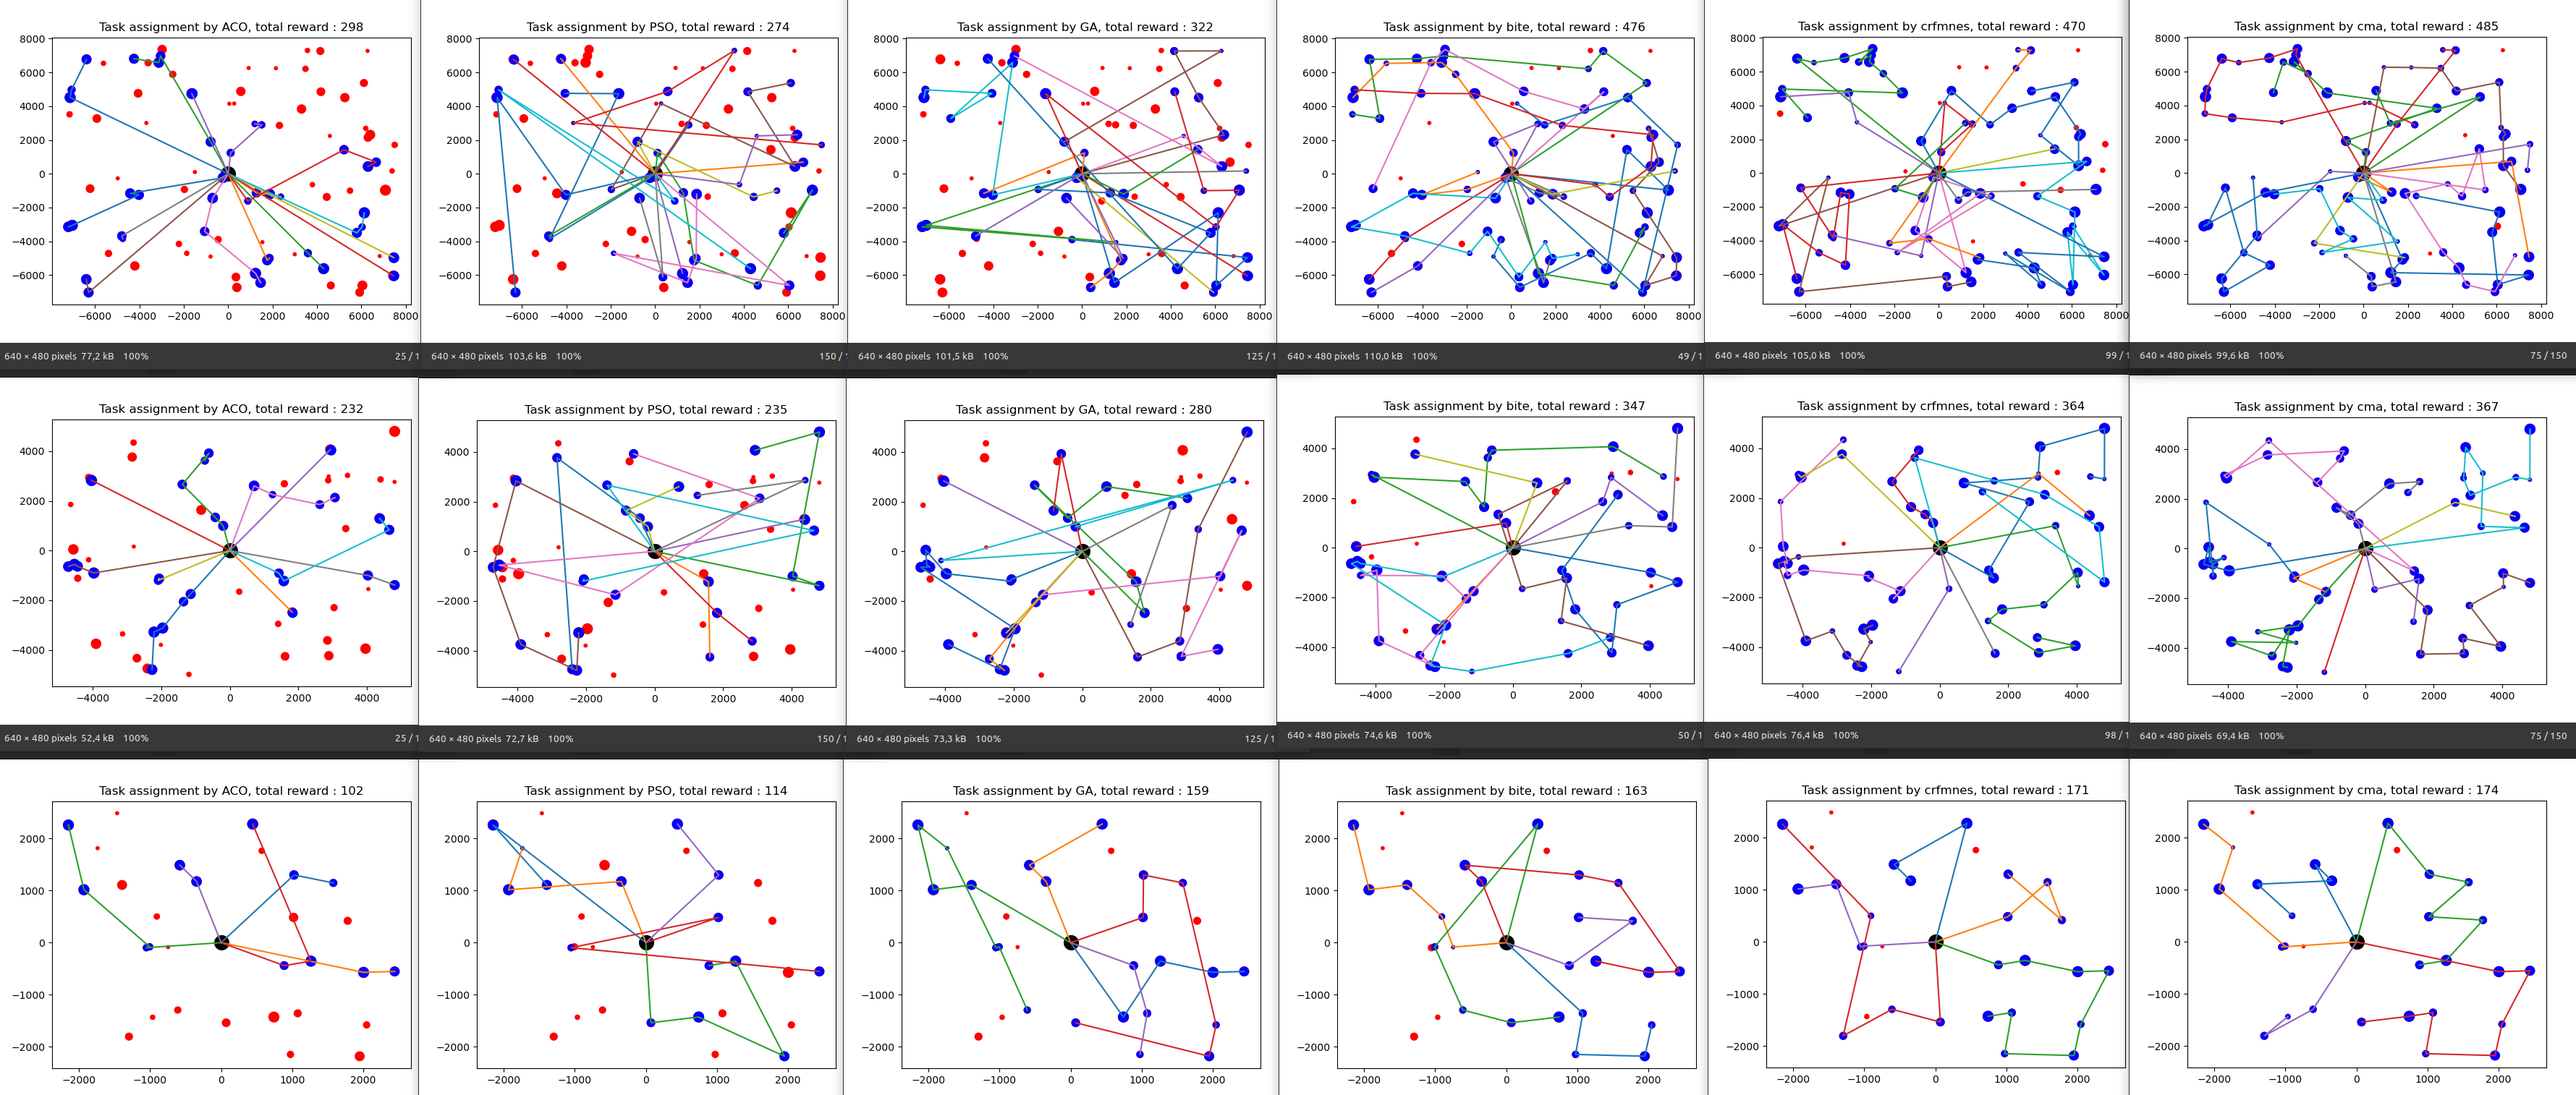
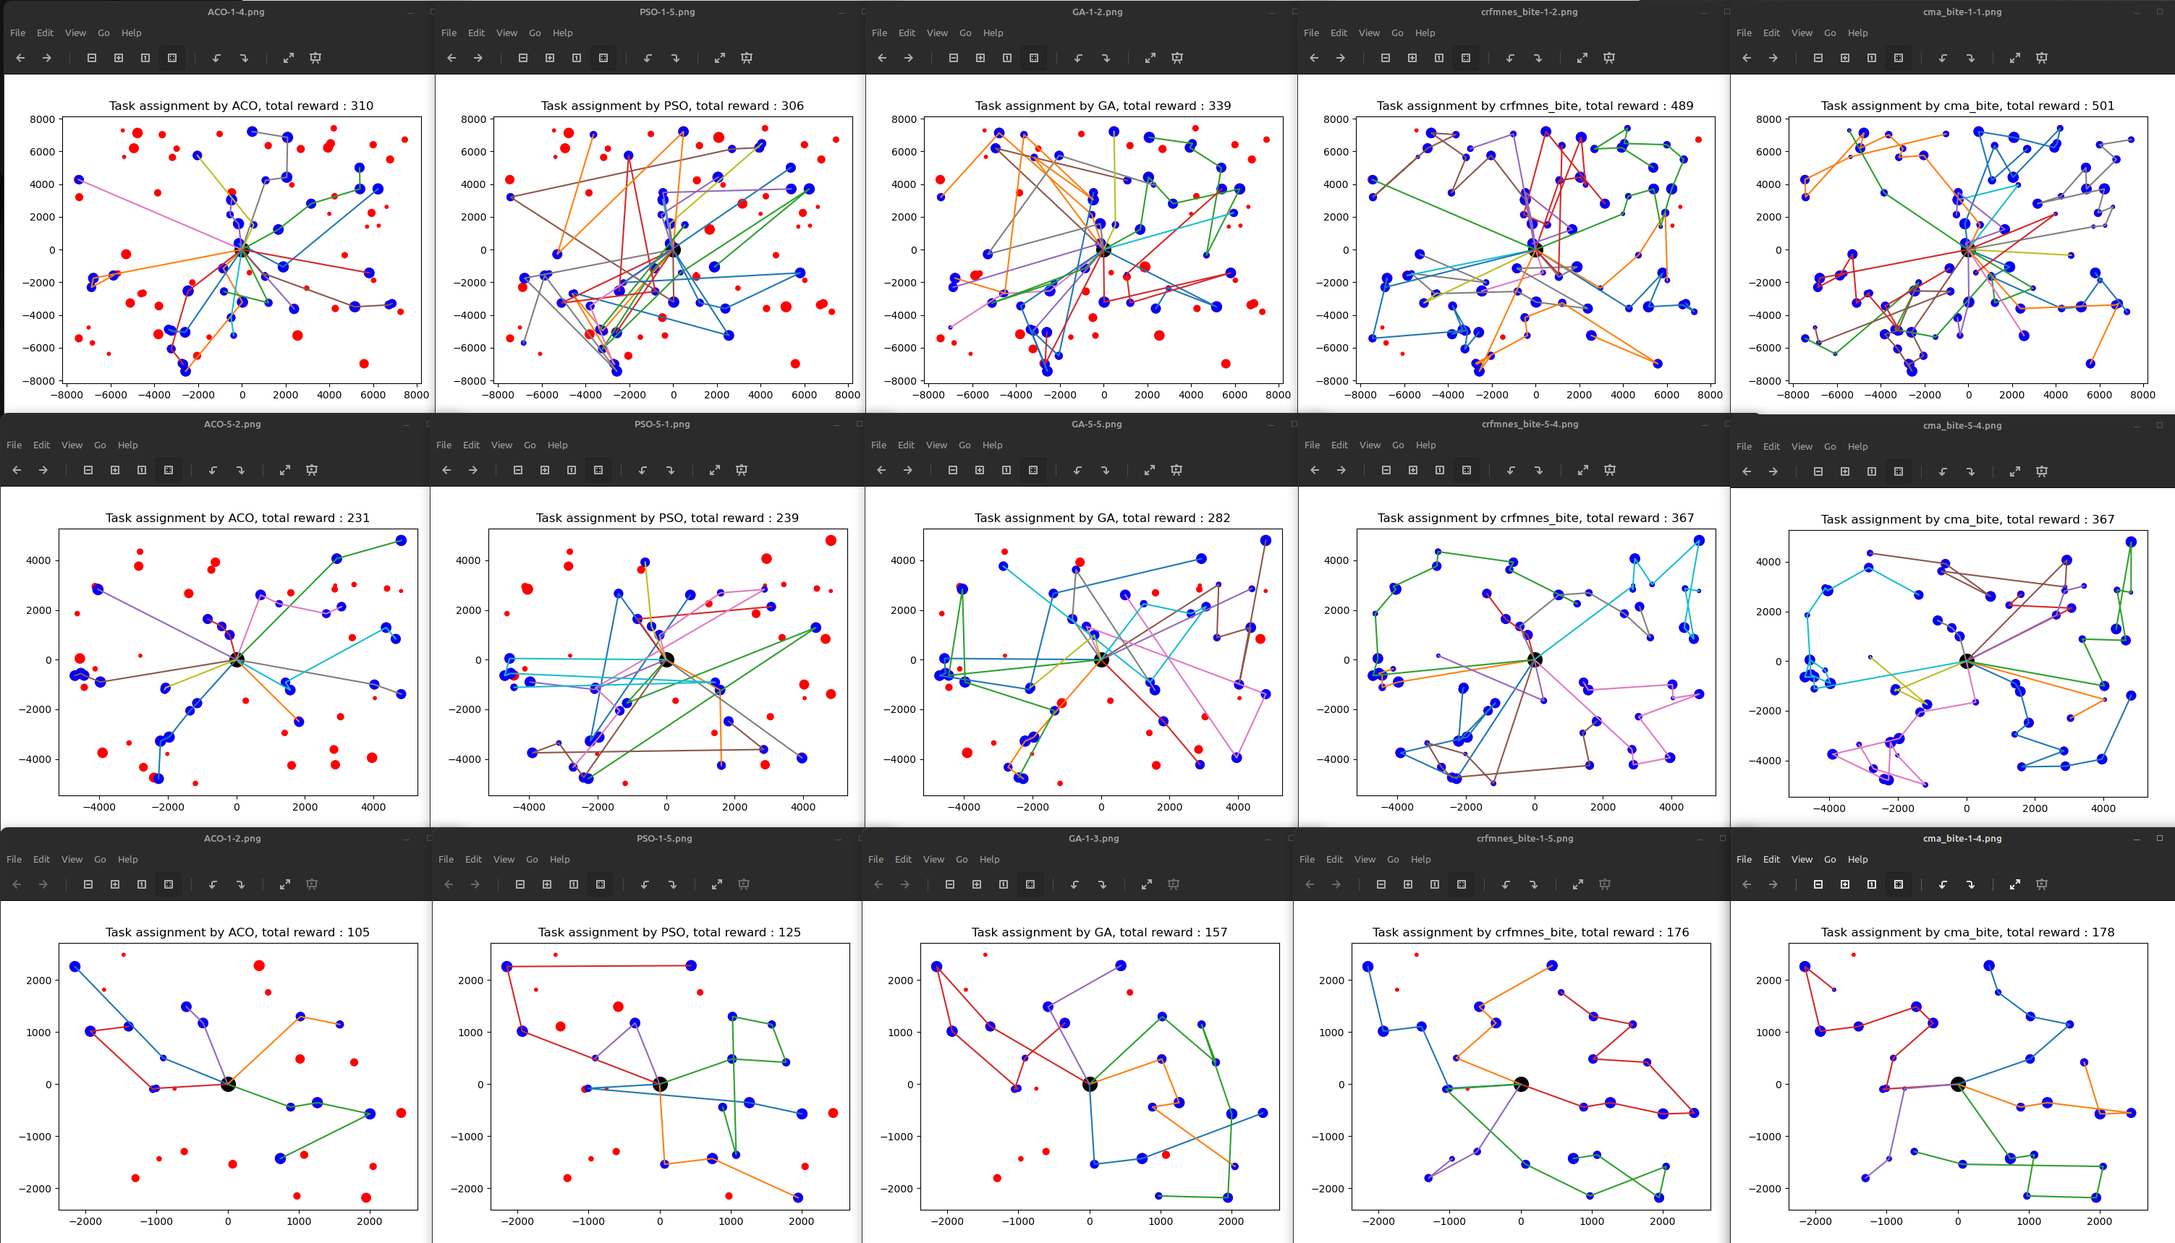
v1.4.2

diff --git a/evaluate.py b/evaluate.py
@@ -26,7 +26,7 @@ from ga import GA
 from aco import ACO
 from pso import PSO
 from fcmaesopt import Optimizer
-from fcmaes.optimizer import Bite_cpp, Cma_cpp, Crfmnes_cpp
+from fcmaes.optimizer import Bite_cpp, Cma_cpp, Crfmnes_cpp, crfmnes_bite, cma_bite
 
 import multiprocessing as mp
 import seaborn as sns
@@ -58,16 +58,19 @@ class Env():
         self.targets = np.zeros(shape=(target_num+1,4),dtype=np.int32)
         if vehicle_num==5:
             self.size='small'
-            self.evals = 1000000
+            self.evals = 2000000
             self.retries = 2
+            self.popsize = 150
         if vehicle_num==10:
             self.size='medium'
-            self.evals = 1500000
+            self.evals = 4000000
             self.retries = 2
+            self.popsize = 300
         if vehicle_num==15:
             self.size='large'
-            self.evals = 2500000
+            self.evals = 8000000
             self.retries = 2
+            self.popsize = 500
         self.map_size = map_size
         self.speed_range = [10, 15, 30]
         #self.time_lim = 1e6
@@ -185,7 +188,7 @@ def evaluate(vehicle_num, target_num, map_size):
     if vehicle_num==15:
         size='large'
     num = 5
-    onum = 6
+    onum = 5
     re_opt = []
     for _ in range(onum):       
         re_opt.append([[] for i in range(num)])
@@ -197,12 +200,9 @@ def evaluate(vehicle_num, target_num, map_size):
             opt = [GA(vehicle_num,env.vehicles_speed,target_num,env.targets,env.time_lim),
                    ACO(vehicle_num,target_num,env.vehicles_speed,env.targets,env.time_lim),
                    PSO(vehicle_num,target_num ,env.targets,env.vehicles_speed,env.time_lim),
-                   Optimizer(env,vehicle_num,env.vehicles_speed,target_num,env.targets,env.time_lim, Bite_cpp(env.evals)),
-                   Optimizer(env,vehicle_num,env.vehicles_speed,target_num,env.targets,env.time_lim, Crfmnes_cpp(env.evals, popsize=128)),
-                   # we have to disable premature termination of CMA-ES
-                   Optimizer(env,vehicle_num,env.vehicles_speed,target_num,env.targets,env.time_lim, Cma_cpp(env.evals, popsize=128, stop_hist=0))]
-            for k in range(onum):       
-                opt_result.append(p.apply_async(opt[k].run))
+                   Optimizer(env,vehicle_num,env.vehicles_speed,target_num,env.targets,env.time_lim, crfmnes_bite(env.evals, M=6, popsize=env.popsize)),
+                   Optimizer(env,vehicle_num,env.vehicles_speed,target_num,env.targets,env.time_lim, cma_bite(env.evals, M=6, popsize=env.popsize))]
+            opt_result.append(p.apply_async(opt[k].run))
             p.close()
             p.join()
             for k in range(onum): 

diff --git a/test_fcmaes.py b/test_fcmaes.py
@@ -12,17 +12,16 @@ from fcmaes.optimizer import wrapper
 from evaluate import Env
 import multiprocessing as mp
 from fcmaesopt import Optimizer
-from fcmaes.optimizer import Bite_cpp, Cma_cpp, Crfmnes_cpp
+from fcmaes.optimizer import Bite_cpp, cma_bite, crfmnes_bite
 
-def get_optimizer(vehicle_num, target_num, map_size, opt, seed = None):
+def get_optimizer(vehicle_num, target_num, map_size, seed = None):
     env = Env(vehicle_num,target_num,map_size,visualized=True,seed=seed)
+    opt = cma_bite(env.evals, M=6, popsize=env.popsize)
+    #opt = crfmnes_bite(env.evals, M=6, popsize=env.popsize)
     return Optimizer(env, vehicle_num,env.vehicles_speed,target_num,env.targets,env.time_lim, opt)
 
 def optimize(vehicle_num, target_num, map_size):
-    evals = 2000000
-    #optimizer = get_optimizer(vehicle_num, target_num, map_size, Bite_cpp(evals), 65)
-    #optimizer = get_optimizer(vehicle_num, target_num, map_size, Crfmnes_cpp(evals, popsize=128), 65)
-    optimizer = get_optimizer(vehicle_num, target_num, map_size, Cma_cpp(evals, popsize=128, stop_hist=0), 65)
+    optimizer = get_optimizer(vehicle_num, target_num, map_size, 65)
     optimizer.fitness = wrapper(optimizer.fitness)
     optimizer.workers = mp.cpu_count()
     task_assignment, time =  optimizer.run()

diff --git a/fcmaesopt.py b/fcmaesopt.py
@@ -59,12 +59,13 @@ class Optimizer():
             for j in range(i):
                 self.map[j, i] = self.map[i, j] = np.linalg.norm(
                     targets[i, :2]-targets[j, :2])
-        self.workers = int(mp.cpu_count()/4) # leave threads for other tests
+        self.workers = int(mp.cpu_count()/3) # leave threads for other tests
         self.retries = env.retries
         self.dim = self.target_num + self.vehicle_num - 1
        
     def name(self):
-        return self.optname.split()[0]
+        #return self.optname.split()[0]
+        return self.optname.replace(' -> ', '_').replace(' cpp', '')
 
     def fitness(self, x):   
         return -fitness_(x, self.vehicle_num, self.vehicles_speed, 

diff --git a/readme.md b/readme.md
@@ -12,7 +12,7 @@
     problem size you see which algorithms scale badly: Increase execution time superlinear
     in relation to the problem size. Avoid these for large problems. 
 
-3) Adds standard continuous optimization algorithms: 
+3) Adds standard continuous optimization algorithms based on: 
     - [BiteOpt](https://github.com/avaneev/biteopt) from Aleksey Vaneev
     - [CR-FM-NES](https://arxiv.org/abs/2201.11422) from Masahiro Nomura
     - [CMA-ES](https://cma-es.github.io/) from N. Hansen
@@ -93,9 +93,8 @@ You can replace one algorithm  below with another algorithm in `evaluate.py`. If
                 opt = [GA(vehicle_num,env.vehicles_speed,target_num,env.targets,env.time_lim),
                        ACO(vehicle_num,target_num,env.vehicles_speed,env.targets,env.time_lim),
                        PSO(vehicle_num,target_num ,env.targets,env.vehicles_speed,env.time_lim),
-                       Optimizer(env,vehicle_num,env.vehicles_speed,target_num,env.targets,env.time_lim, Bite_cpp(env.evals)),
-                       Optimizer(env,vehicle_num,env.vehicles_speed,target_num,env.targets,env.time_lim, Crfmnes_cpp(env.evals, popsize=128)),
-                       Optimizer(env,vehicle_num,env.vehicles_speed,target_num,env.targets,env.time_lim, Cma_cpp(env.evals, popsize=128, stop_hist=0))]
+                       Optimizer(env,vehicle_num,env.vehicles_speed,target_num,env.targets,env.time_lim, crfmnes_bite(env.evals, M=6, popsize=env.popsize)),
+                       Optimizer(env,vehicle_num,env.vehicles_speed,target_num,env.targets,env.time_lim, cma_bite(env.evals, M=6, popsize=env.popsize))]
                 for k in range(onum):       
                     opt_result.append(p.apply_async(opt[k].run))
                 p.close()
